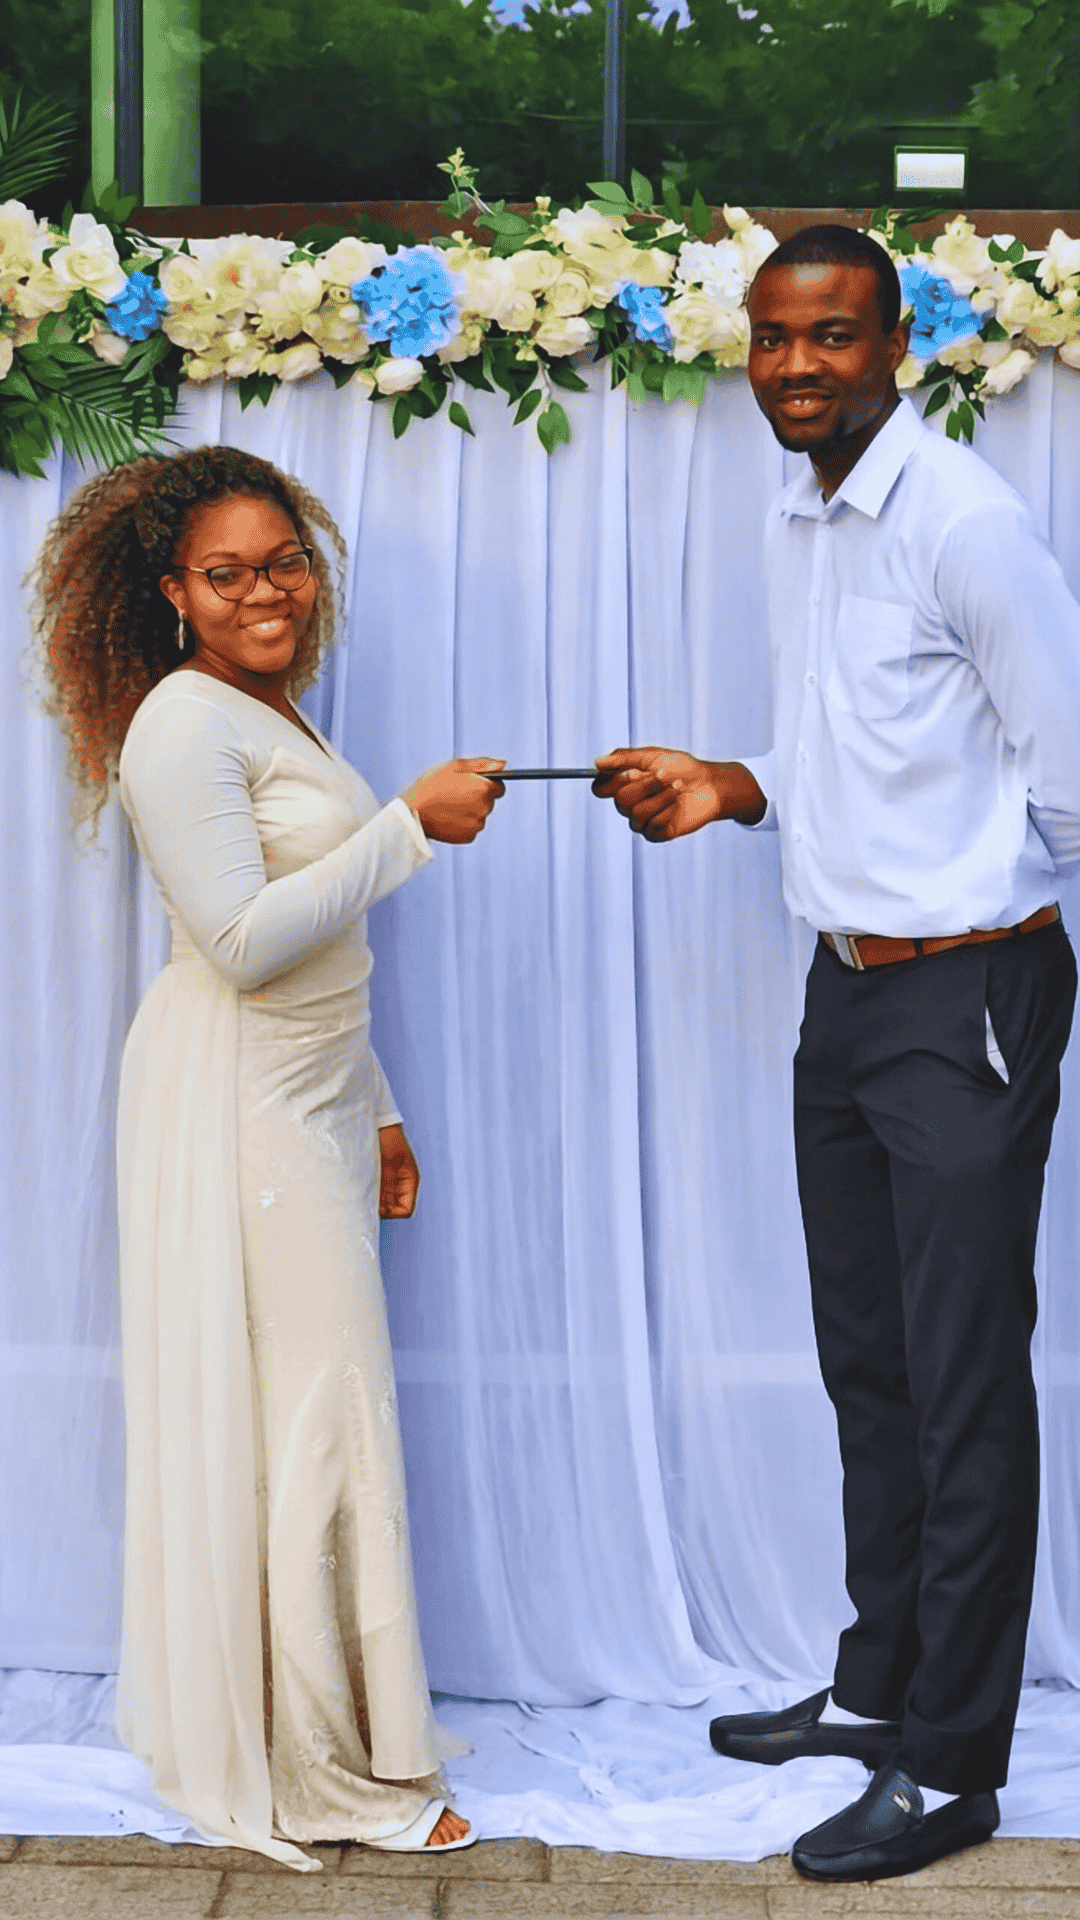
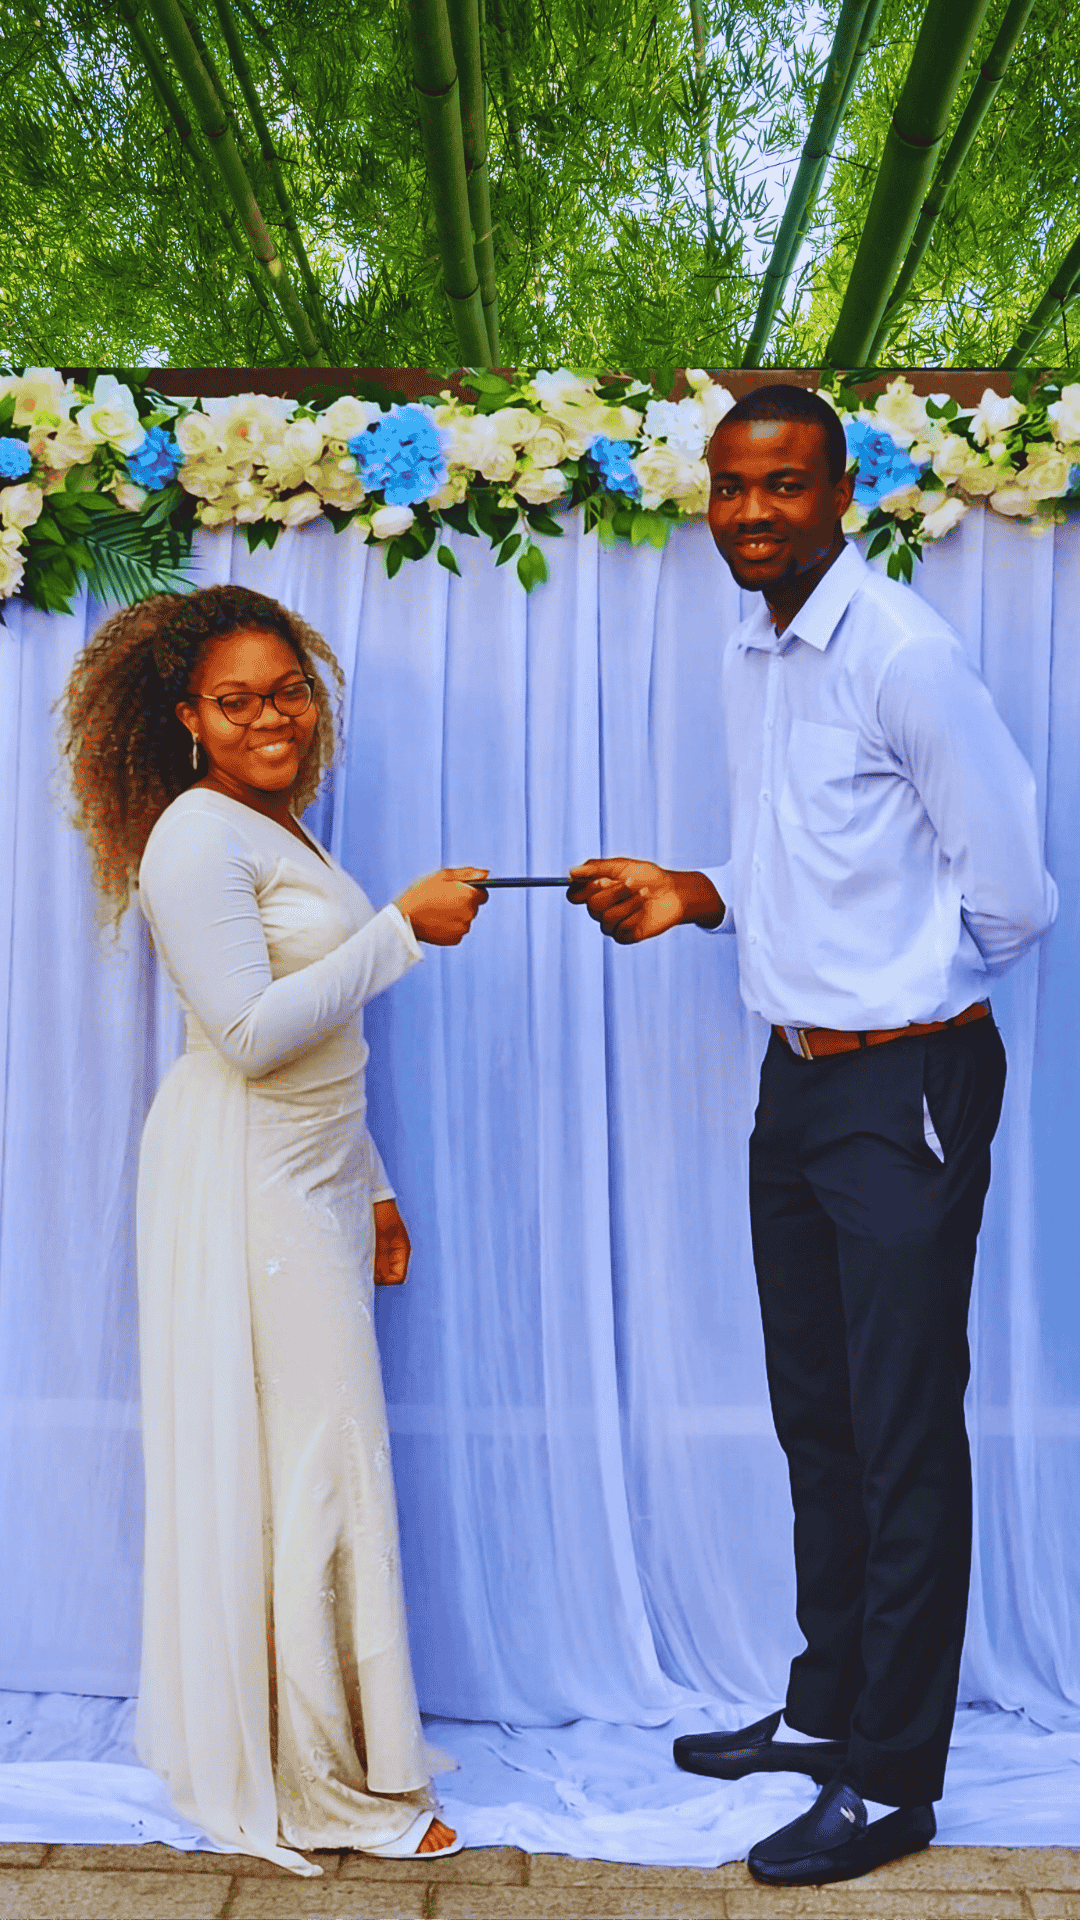
feat: Update donation page subtitles, refine wedding color descriptions to include white, and adjust image object positioning.

diff --git a/lib/translations.ts b/lib/translations.ts
@@ -49,7 +49,7 @@ export const translations = {
     donation: {
       title: "Liste de Mariage",
       subtitle:
-        "Votre présence est notre plus beau cadeau. Si vous souhaitez participer à notre nouvelle vie...",
+        "Chère famille, chers amis,\n\nVotre présence à notre mariage est pour nous un immense bonheur.\nSi vous souhaitez nous témoigner votre affection par un cadeau, nous vous serions reconnaissants. Une contribution en argent serait grandement appréciée.\n\nNous vous remercions sincèrement pour votre générosité et votre délicate attention.",
       transfer: "Virement",
       copied: "Copié dans le presse-papier",
       paypalDesc: "Scannez le QR code ou cliquez sur le lien ci-dessous",
@@ -152,8 +152,10 @@ export const translations = {
         intro:
           "Pour honorer la beauté et la solennité de cette union, nous avons choisi le",
         royalBlue: "bleu royal",
-        and: "et l'",
-        gold: "or",
+        and: ", le",
+        gold: "blanc",
+        andGold: "et l'",
+        goldColor: "or",
         asColors: "comme couleurs de la cérémonie.",
         verse:
           "C'est pourquoi je veux qu'en tout lieu les hommes prient en élevant vers le ciel des mains pures, sans colère ni esprit de dispute. 9 Je veux que les femmes agissent de même, en s'habillant décemment, avec discrétion et simplicité. Qu'elles ne se parent pas d'une coiffure recherchée, d'or, de perles ou de toilettes somptueuses",
@@ -211,7 +213,7 @@ export const translations = {
     donation: {
       title: "Wedding Registry",
       subtitle:
-        "Your presence is our greatest gift. If you wish to contribute to our new life...",
+        "Dear family and friends,\n\nYour presence at our wedding is a great joy to us.\nIf you wish to show your affection with a gift, we would be very grateful. A monetary contribution would be greatly appreciated.\n\nWe sincerely thank you for your generosity and your kind attention.",
       transfer: "Bank Transfer",
       copied: "Copied to clipboard",
       paypalDesc: "Scan the QR code or click the link below",
@@ -312,8 +314,10 @@ export const translations = {
         intro:
           "To honor the beauty and solemnity of this union, we have chosen",
         royalBlue: "royal blue",
-        and: "and",
-        gold: "gold",
+        and: ",",
+        gold: "white",
+        andGold: "and",
+        goldColor: "gold",
         asColors: "as the ceremony colors.",
         verse:
           "Therefore I want the men everywhere to pray, lifting up holy hands without anger or disputing. I also want the women to dress modestly, with decency and propriety, adorning themselves, not with elaborate hairstyles or gold or pearls or expensive clothes",
@@ -371,7 +375,7 @@ export const translations = {
     donation: {
       title: "Hochzeitsliste",
       subtitle:
-        "Ihre Anwesenheit ist unser schönstes Geschenk. Wenn Sie zu unserem neuen Leben beitragen möchten...",
+        "Liebe Familie, liebe Freunde,\n\nEure Anwesenheit bei unserer Hochzeit ist für uns eine große Freude.\nWenn ihr uns eure Zuneigung mit einem Geschenk zeigen möchtet, wären wir euch sehr dankbar. Ein Geldbeitrag würde sehr geschätzt werden.\n\nWir danken euch herzlich für eure Großzügigkeit und eure liebevolle Aufmerksamkeit.",
       transfer: "Überweisung",
       copied: "In die Zwischenablage kopiert",
       paypalDesc: "Scannen Sie den QR-Code oder klicken Sie auf den Link unten",
@@ -474,8 +478,10 @@ export const translations = {
         intro:
           "Um die Schönheit und Feierlichkeit dieser Verbindung zu ehren, haben wir",
         royalBlue: "Königsblau",
-        and: "und",
-        gold: "Gold",
+        and: ",",
+        gold: "Weiß",
+        andGold: "und",
+        goldColor: "Gold",
         asColors: "als Farben der Zeremonie gewählt.",
         verse:
           "So will ich nun, dass die Männer beten an allen Orten und aufheben heilige Hände ohne Zorn und Zweifel; desgleichen, dass die Frauen in schicklicher Kleidung sich schmücken mit Anstand und Besonnenheit, nicht mit Haarflechten und Gold oder Perlen oder kostbarem Gewand",

diff --git a/components/Testimonials.tsx b/components/Testimonials.tsx
@@ -101,6 +101,7 @@ export default function Testimonials() {
                             alt={step.title}
                             fill
                             className="object-cover"
+                            style={{ objectPosition: "30% center" }}
                             sizes="(max-width: 768px) 80vw, 320px"
                           />
                           {/* Overlay with title */}
@@ -213,9 +214,17 @@ export default function Testimonials() {
                   {dc.intro}{" "}
                   <strong className="text-gold font-medium">
                     {dc.royalBlue}
-                  </strong>{" "}
+                  </strong>
                   {dc.and}{" "}
-                  <strong className="text-gold font-medium">{dc.gold}</strong>{" "}
+                  <strong className="text-white font-medium">{dc.gold}</strong>{" "}
+                  {"andGold" in dc && (
+                    <>
+                      {dc.andGold}{" "}
+                      <strong className="text-gold font-medium">
+                        {dc.goldColor}
+                      </strong>{" "}
+                    </>
+                  )}
                   {dc.asColors}
                 </p>
 

diff --git a/components/Donation.tsx b/components/Donation.tsx
@@ -33,8 +33,8 @@ export default function Donation() {
               <h2 className="text-3xl md:text-5xl font-serif text-gold mb-6 tracking-wide">
                 {t.title}
               </h2>
-              <p className="text-stone-600 max-w-2xl mx-auto leading-relaxed italic [font-family:var(--font-playfair)] text-lg">
-                &quot;{t.subtitle}&quot;
+              <p className="text-stone-600 max-w-2xl mx-auto leading-relaxed italic [font-family:var(--font-playfair)] text-lg whitespace-pre-line">
+                {t.subtitle}
               </p>
             </div>
 
